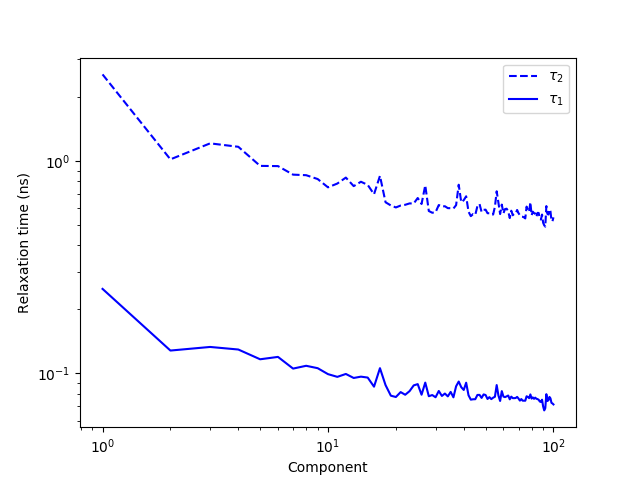
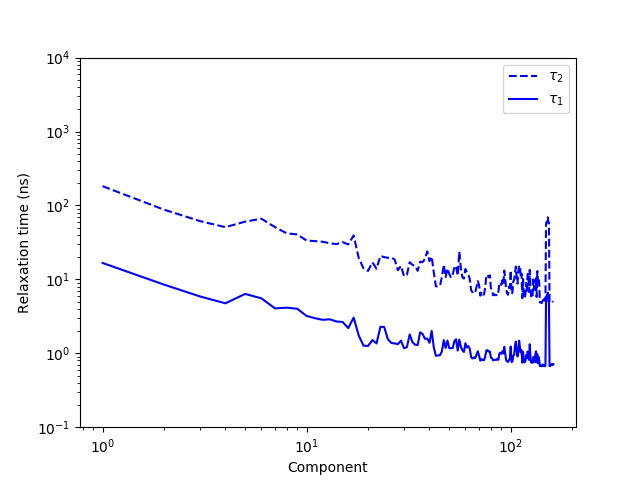
Tutorial

diff --git a/scr/autocorr.py b/scr/autocorr.py
@@ -125,7 +125,7 @@ def main(filenames, N_lips, timestep, file_out = 'autocorr_relaxtime_vs_PC.xvg')
 		PC.append(i + 1)
 		T_relax.append(math.e ** t_relax)
 
-	p = plt.loglog(PC, T_relax, label = r'$\tau_2 = 1/e^2$', color = 'blue', linestyle = '--')
+	p = plt.loglog(PC[:100], T_relax[:100], label = r'$\tau_2 = 1/e^2$', color = 'blue', linestyle = '--')
 	handle, = p 
 	handles.append(handle)
 
